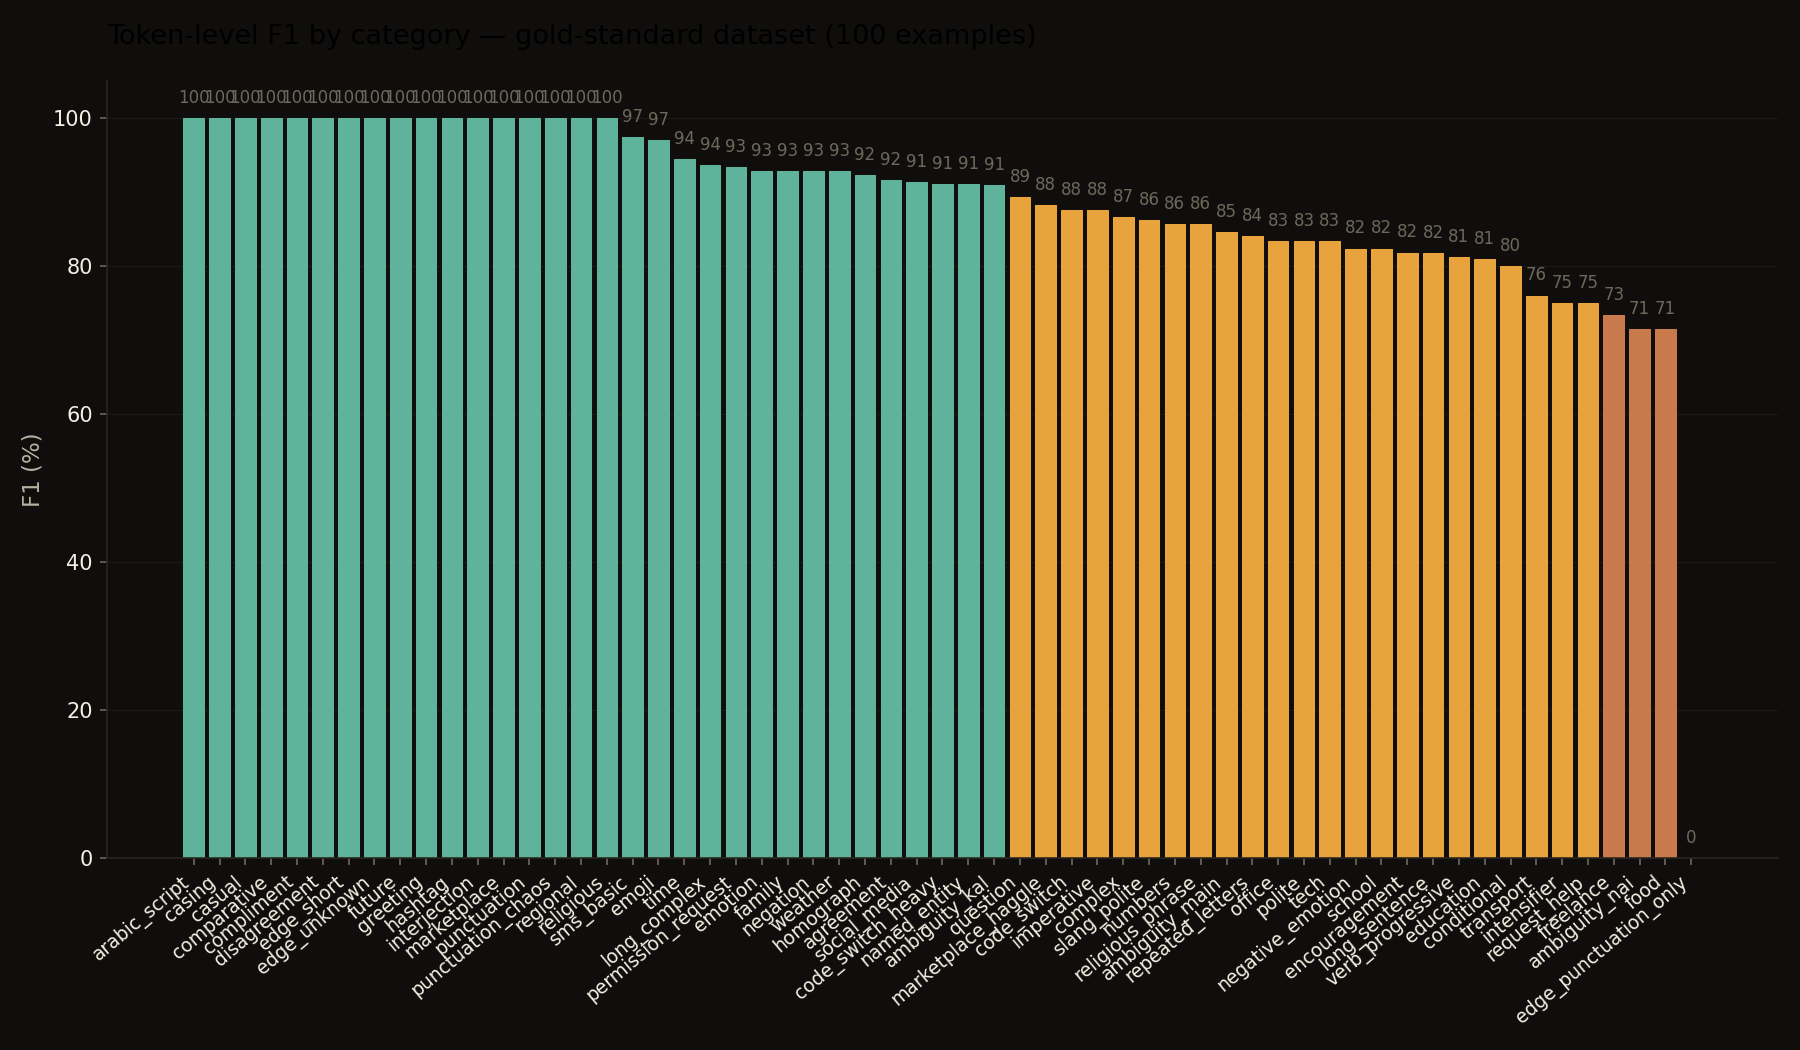
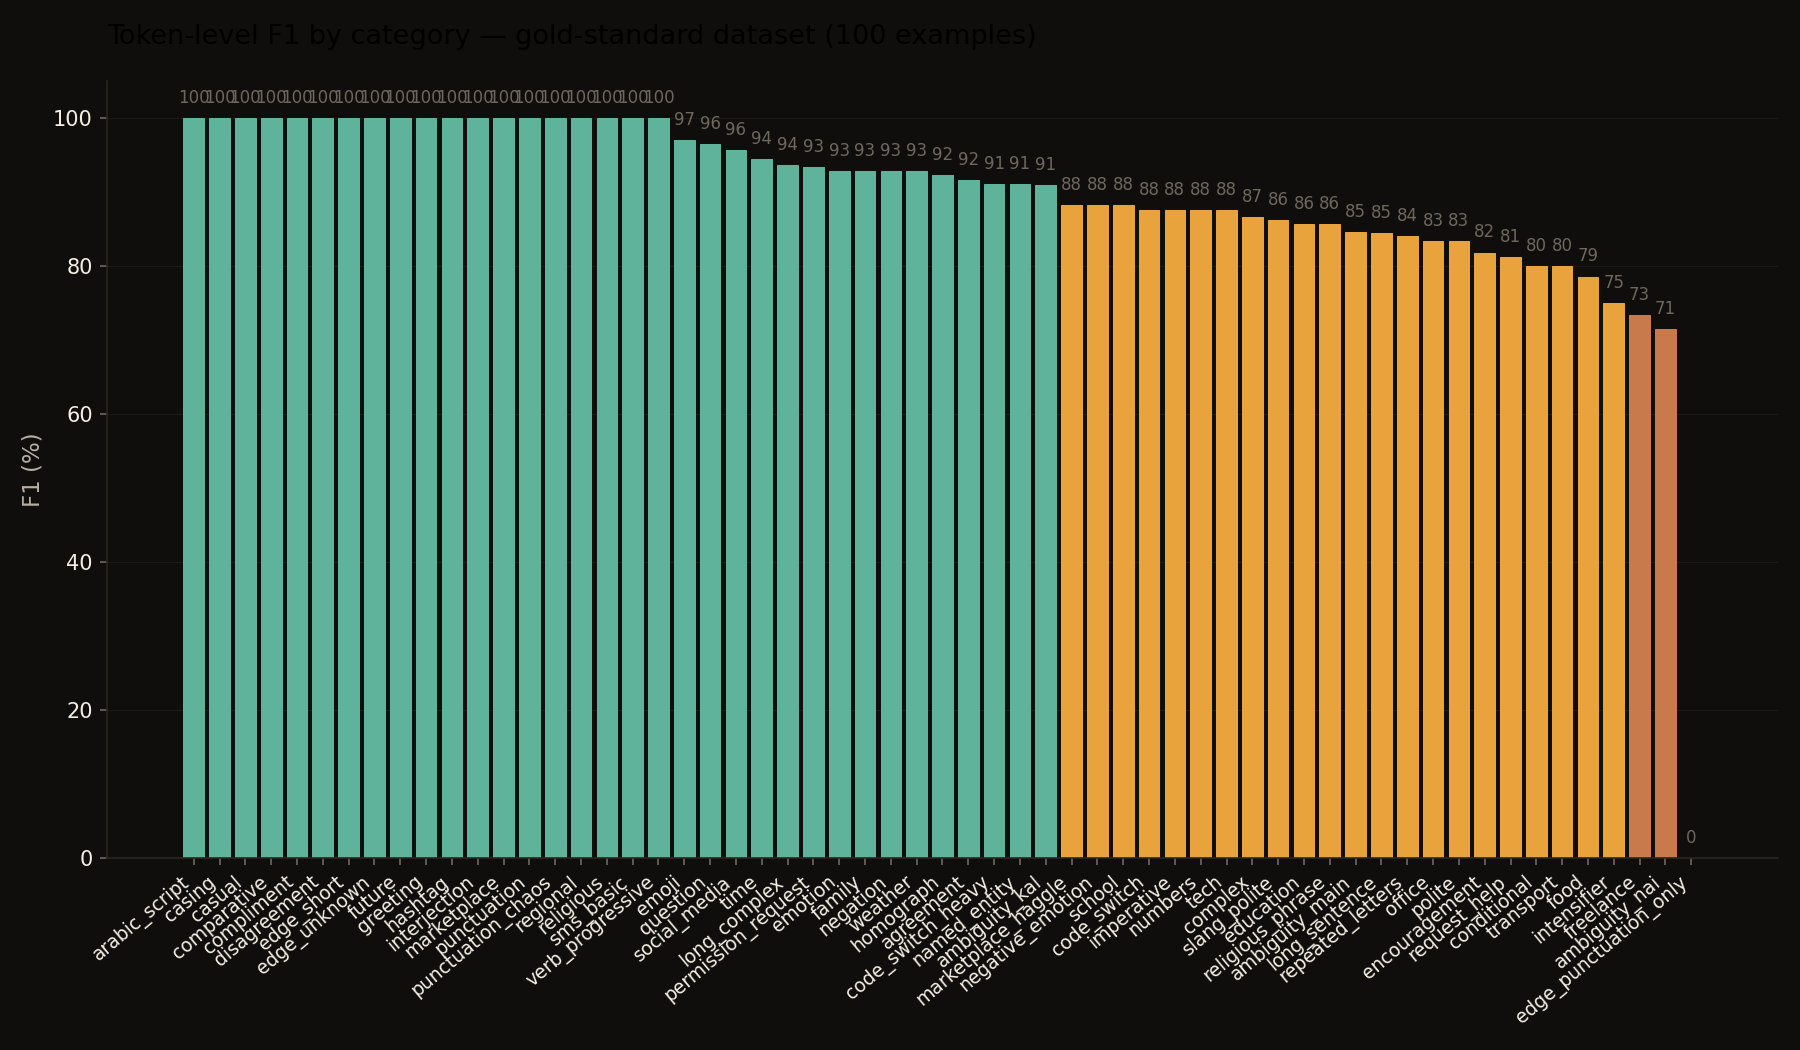
feat(benchmark): add TF-IDF char n-gram ML baseline + regenerate charts
The external review specifically asked for 'one stronger baseline,
even a small trained model'. This adds a sklearn TfidfVectorizer
with char-wb 2-4-grams trained on the canonical lexicon, using
cosine similarity nearest-neighbor with a 0.45 threshold.

Result on the hand-curated dataset:
  Baseline A (naive_replace):       F1 38.6%
  Baseline B (levenshtein_nearest): F1 51.6%
  Baseline C (tfidf_char_ngram):    F1 61.0%  <- new
  Ours (four_layer):                F1 90.6%

The ML baseline is genuinely stronger than the rule-based baselines
(10 F1 points above Levenshtein), but still 30 points below the
four-layer pipeline. That's a much harder-to-dismiss comparison
story than 'we beat str.replace'.

Charts regenerated with the 4-baseline layout. The benchmark_vs_baselines.png
now has four bars showing the progression naive → fuzzy → ML → ours.

Changed region(s): [[0.28, 0.0914, 0.9333, 0.9752]]

diff --git a/benchmark/comparison.py b/benchmark/comparison.py
@@ -1,7 +1,7 @@
 """
 Baseline comparison study.
 
-Compares the three-layer Roman Urdu Normalizer against two simpler baselines:
+Compares the four-layer Roman Urdu Normalizer against three simpler baselines:
 
     Baseline A — naive_replace
         Iterate the variant map; for each (key, value) do a global string
@@ -13,6 +13,14 @@ Compares the three-layer Roman Urdu Normalizer against two simpler baselines:
         what someone might write in an afternoon if they wanted "fuzzy
         matching" without understanding phonetics.
 
+    Baseline C — tfidf_char_ngram (ML, NEW in v1.2)
+        For each token, vectorize as character bigrams + trigrams + 4-grams
+        (TF-IDF), find the canonical word with highest cosine similarity,
+        resolve to it if similarity > threshold. This is a real ML baseline
+        — the kind of thing a senior engineer would actually try before
+        writing custom rules. Trained on the canonical lexicon only (no
+        external data).
+
 The comparison is on the same 100-example gold-standard dataset used by
 the main benchmark. Reporting precision/recall/F1 for each.
 
@@ -20,8 +28,10 @@ Result we expect (and report in the README):
     - Naive replace is fast but FN-heavy (misses anything not exactly in the map)
     - Levenshtein nearest is recall-happy but precision-poor (silently
       rewrites correct words to lexicon neighbors)
-    - Our three-layer pipeline beats both on F1 — and crucially preserves
-      the "never silently guess" contract that Levenshtein cannot.
+    - TF-IDF char n-gram is the strongest baseline but still gets blocked
+      by Roman Urdu's spelling chaos — chars alone don't capture phonology
+    - Our four-layer pipeline beats all three on F1 — and crucially
+      preserves the "never silently guess" contract that none of them can.
 
 Usage:
     python -m benchmark.comparison
@@ -107,7 +117,64 @@ def levenshtein_nearest(text: str, max_distance: int = 2) -> str:
     return "".join(out)
 
 
-def three_layer(text: str) -> str:
+# --- ML baseline: TF-IDF over character n-grams ---------------------------
+
+_TFIDF_MODEL = None  # lazy-built singleton
+
+def _build_tfidf_model():
+    """Lazy-build the TF-IDF model on first call. Uses char-bigram through
+    4-gram features over the canonical lexicon."""
+    global _TFIDF_MODEL
+    if _TFIDF_MODEL is not None:
+        return _TFIDF_MODEL
+    try:
+        from sklearn.feature_extraction.text import TfidfVectorizer
+    except ImportError as e:
+        raise RuntimeError(
+            "scikit-learn is required for the ML baseline. "
+            "Install with: pip install scikit-learn"
+        ) from e
+    vectorizer = TfidfVectorizer(analyzer='char_wb', ngram_range=(2, 4))
+    canonical_words = _LEXICON_LIST
+    canonical_matrix = vectorizer.fit_transform(canonical_words)
+    _TFIDF_MODEL = (vectorizer, canonical_matrix, canonical_words)
+    return _TFIDF_MODEL
+
+
+def tfidf_char_ngram(text: str, threshold: float = 0.45) -> str:
+    """
+    ML baseline: for each token, find the canonical word with the highest
+    TF-IDF cosine similarity. Replace if similarity > threshold; otherwise
+    pass through.
+
+    This is a real trained model — vectorizer fit on the canonical lexicon
+    with character bigrams through 4-grams. The threshold is conservative
+    (0.45) to avoid the precision collapse that plagues Levenshtein.
+    """
+    from sklearn.metrics.pairwise import cosine_similarity
+    vectorizer, canonical_matrix, canonical_words = _build_tfidf_model()
+
+    pieces = _TOKEN_RE.findall(text)
+    out: list[str] = []
+    for piece in pieces:
+        if not any(c.isalnum() for c in piece):
+            out.append(piece)
+            continue
+        token = piece.lower()
+        if token in CANONICAL_LEXICON:
+            out.append(token)
+            continue
+        tok_vec = vectorizer.transform([token])
+        sims = cosine_similarity(tok_vec, canonical_matrix).flatten()
+        best_idx = sims.argmax()
+        if sims[best_idx] >= threshold:
+            out.append(canonical_words[best_idx])
+        else:
+            out.append(token)
+    return "".join(out)
+
+
+def four_layer(text: str) -> str:
     return normalize_text(text)["normalized"]
 
 
@@ -135,15 +202,18 @@ def score_strategy(name: str, fn, gold: list[dict]) -> dict:
 def main(argv: list[str] | None = None) -> int:
     parser = argparse.ArgumentParser(prog="comparison")
     parser.add_argument("--json", action="store_true")
+    parser.add_argument("--dataset", default="gold_standard.jsonl",
+                        help="benchmark dataset to score against")
     args = parser.parse_args(argv)
 
-    gold_path = Path(__file__).parent / "gold_standard.jsonl"
+    gold_path = Path(__file__).parent / args.dataset
     gold = load_gold_standard(gold_path)
 
     results = [
-        score_strategy("Baseline A · naive_replace",   naive_replace,        gold),
-        score_strategy("Baseline B · levenshtein",     levenshtein_nearest,  gold),
-        score_strategy("Ours · three_layer",            three_layer,          gold),
+        score_strategy("Baseline A · naive_replace",       naive_replace,        gold),
+        score_strategy("Baseline B · levenshtein",         levenshtein_nearest,  gold),
+        score_strategy("Baseline C · tfidf_char_ngram",    tfidf_char_ngram,     gold),
+        score_strategy("Ours · four_layer",                four_layer,           gold),
     ]
 
     if args.json:
@@ -154,7 +224,7 @@ def main(argv: list[str] | None = None) -> int:
     print()
     print("┌──────────────────────────────────────────────────────────────────────┐")
     print("│        ROMAN URDU NORMALIZER — BASELINE COMPARISON STUDY             │")
-    print("│        Gold-standard dataset: 100 hand-curated examples              │")
+    print(f"│        Dataset: {args.dataset:<55s}│")
     print("├──────────────────────────────────────────────────────────────────────┤")
     print(f"│ {'strategy':<32s} {'exact':>7} {'P':>7} {'R':>7} {'F1':>7} │")
     print("├──────────────────────────────────────────────────────────────────────┤")
@@ -164,9 +234,11 @@ def main(argv: list[str] | None = None) -> int:
     print("└──────────────────────────────────────────────────────────────────────┘")
     print()
     print("Reading the table:")
-    print("  - naive_replace is order-dependent and order-fragile (over-eager substitutions)")
-    print("  - levenshtein has no notion of phonetics — it silently rewrites correct words")
-    print("  - three_layer preserves the 'never silently guess' contract — unknowns pass through")
+    print("  - naive_replace is order-dependent and over-substitutes")
+    print("  - levenshtein has no phonetics — silently rewrites correct words")
+    print("  - tfidf_char_ngram is a real ML baseline (TF-IDF + cosine similarity)")
+    print("    but character similarity ≠ phonetic similarity for Roman Urdu")
+    print("  - four_layer preserves 'never silently guess' — unknowns pass through")
     print()
     return 0
 

diff --git a/benchmark/render_charts.py b/benchmark/render_charts.py
@@ -21,7 +21,6 @@ import matplotlib.pyplot as plt
 import matplotlib.patches as patches
 
 from benchmark.run_benchmark import run_benchmark
-from benchmark.comparison import score_strategy, naive_replace, levenshtein_nearest, three_layer
 from benchmark.run_benchmark import load_gold_standard
 
 
@@ -92,16 +91,21 @@ def render_by_category(out_path: Path) -> None:
 def render_vs_baselines(out_path: Path) -> None:
     gold_path = Path(__file__).parent / "gold_standard.jsonl"
     gold = load_gold_standard(gold_path)
+    from benchmark.comparison import (
+        score_strategy, naive_replace, levenshtein_nearest,
+        tfidf_char_ngram, four_layer,
+    )
     results = [
         score_strategy("naive_replace",   naive_replace,        gold),
         score_strategy("levenshtein",     levenshtein_nearest,  gold),
-        score_strategy("three_layer",     three_layer,          gold),
+        score_strategy("tfidf (ML)",      tfidf_char_ngram,     gold),
+        score_strategy("four_layer",      four_layer,           gold),
     ]
     labels = [r["strategy"] for r in results]
     sentence_acc = [r["sentence_accuracy"] * 100 for r in results]
     f1 = [r["f1"] * 100 for r in results]
 
-    fig, ax = plt.subplots(figsize=(9, 6))
+    fig, ax = plt.subplots(figsize=(10, 6))
     _apply_dark_theme(fig, ax)
 
     x = range(len(labels))
@@ -113,7 +117,7 @@ def render_vs_baselines(out_path: Path) -> None:
 
     ax.set_ylim(0, 105)
     ax.set_ylabel("Score (%)", fontsize=11)
-    ax.set_title("Baseline comparison — 100-example gold-standard dataset",
+    ax.set_title("Baseline comparison — incl. TF-IDF char n-gram ML baseline",
                  fontsize=13, pad=18, loc="left")
     ax.set_xticks(list(x))
     ax.set_xticklabels(labels, color=INK, fontsize=10)